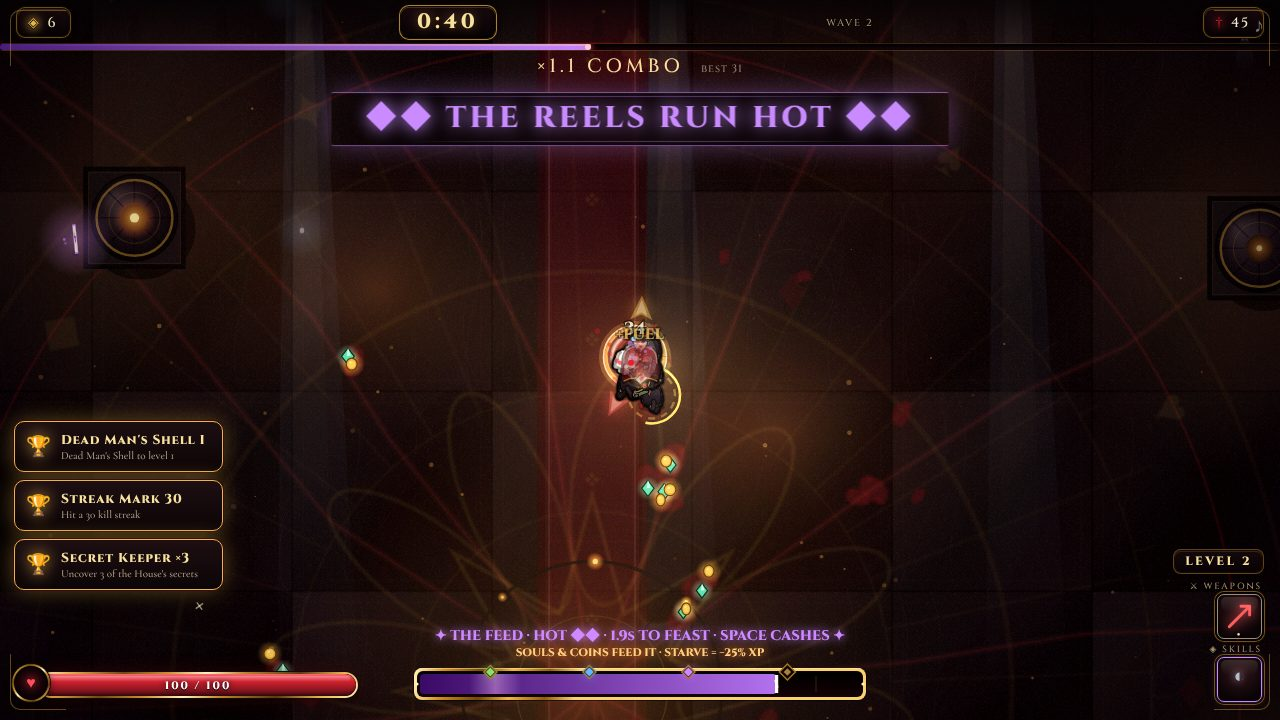
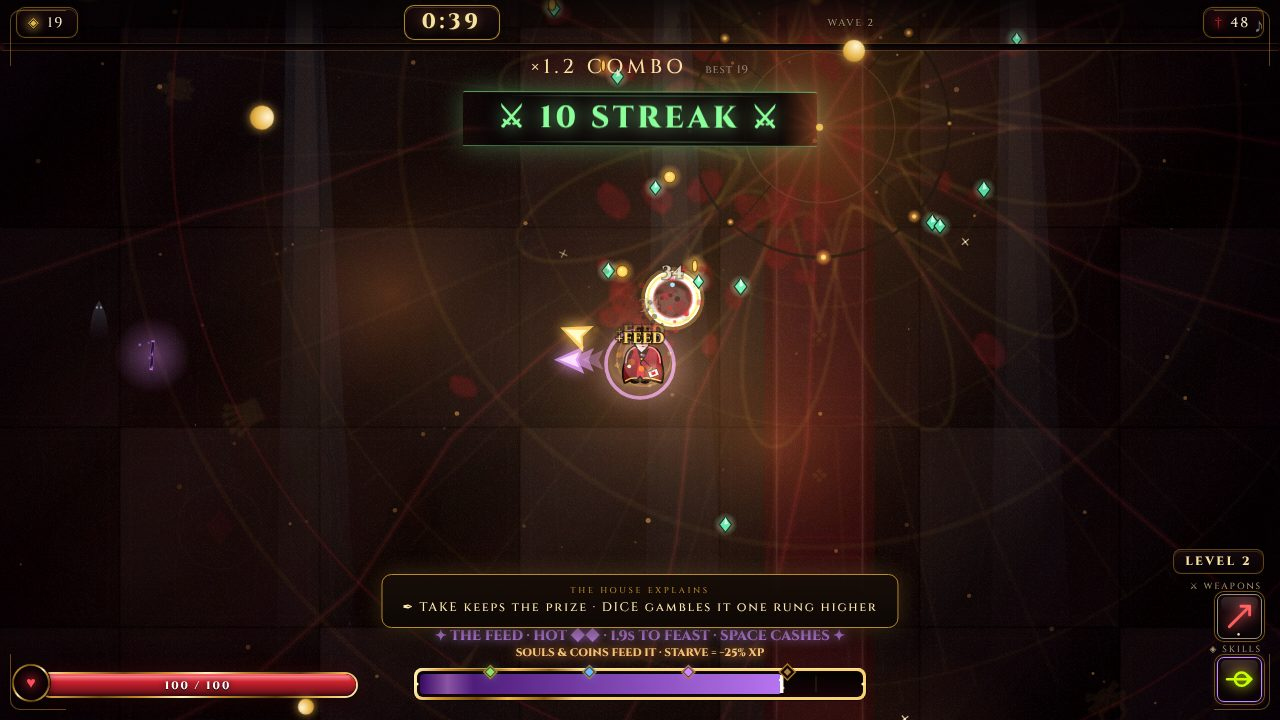
THE FEED wears on Vesper: a halo in the tier's jewel color (gold double ring at the FEAST), flickering red when it is about to starve
Claude-Session: https://claude.ai/code/session_01LfZkkF7Ex9CahCtvUfnFA3

diff --git a/src/core.js b/src/core.js
@@ -2664,6 +2664,15 @@ function drawPlayer(){
     ctx.strokeStyle='rgba(255,220,140,'+(0.2+Math.sin(gt*10+2)*0.12)+')'; ctx.lineWidth=1.2;
     ctx.beginPath(); ctx.arc(0,0,33+Math.sin(gt*5.5)*4,0,6.28); ctx.stroke(); ctx.restore();
     if(Math.random()<0.25) parts.push({x:P.x+rnd(-20,20),y:P.y+rnd(-14,18),vx:rnd(-10,10),vy:-rnd(40,90),life:rnd(.2,.45),col:'#ff9a3c',r:rnd(1,2)}); }
+  if(P.ovT>0 && state==='playing'){ // J1: THE FEED wears on her — a halo in the tier's jewel color, tighter and brighter as it climbs
+    const tr=P.ovTier||0, c9=FEED_COL[tr], pulse=Math.sin(gt*(6+tr*3))*0.5+0.5;
+    ctx.save(); ctx.globalCompositeOperation='lighter';
+    ctx.globalAlpha=0.22+tr*0.1+pulse*0.12; ctx.strokeStyle=c9; ctx.lineWidth=2+tr*0.8; ctx.shadowColor=c9; ctx.shadowBlur=GFX.lite?0:10+tr*6;
+    ctx.beginPath(); ctx.arc(0,4,30+pulse*4,0,6.28); ctx.stroke();
+    if(tr>=3){ ctx.globalAlpha=0.35+pulse*0.25; ctx.strokeStyle='#fff2c0'; ctx.lineWidth=1.4; ctx.beginPath(); ctx.arc(0,4,38+pulse*5,0,6.28); ctx.stroke(); }
+    // the starve warning: the halo flickers red under 30
+    if(P.ovT<30 && ((gt*10)|0)%2===0){ ctx.globalAlpha=0.5; ctx.strokeStyle='#ff3344'; ctx.lineWidth=2; ctx.shadowColor='#ff3344'; ctx.beginPath(); ctx.arc(0,4,24,0,6.28); ctx.stroke(); }
+    ctx.restore(); }
   if(P.godT>0){ ctx.save(); ctx.globalCompositeOperation='lighter';
     ctx.strokeStyle='rgba(139,255,154,'+(0.6+Math.sin(gt*12)*0.3)+')'; ctx.lineWidth=2.6;
     ctx.beginPath(); ctx.arc(0,0,24+Math.sin(gt*9)*3,0,6.28); ctx.stroke(); ctx.restore(); }
